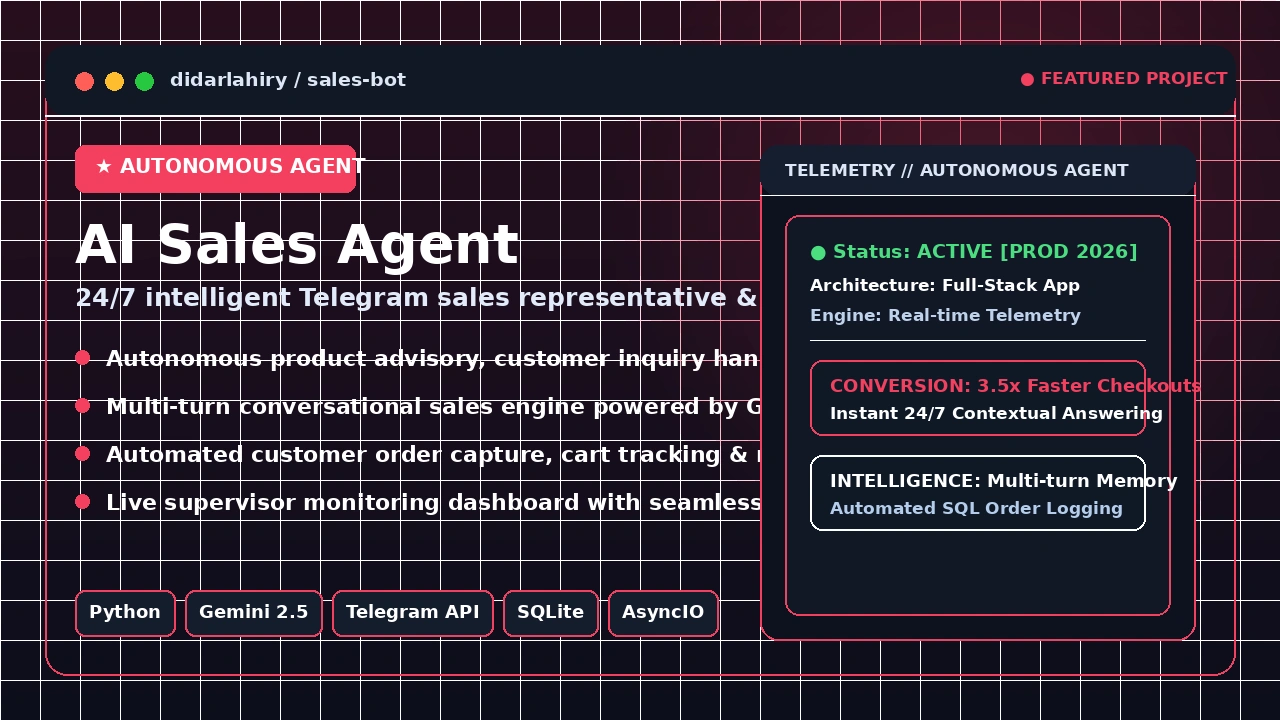
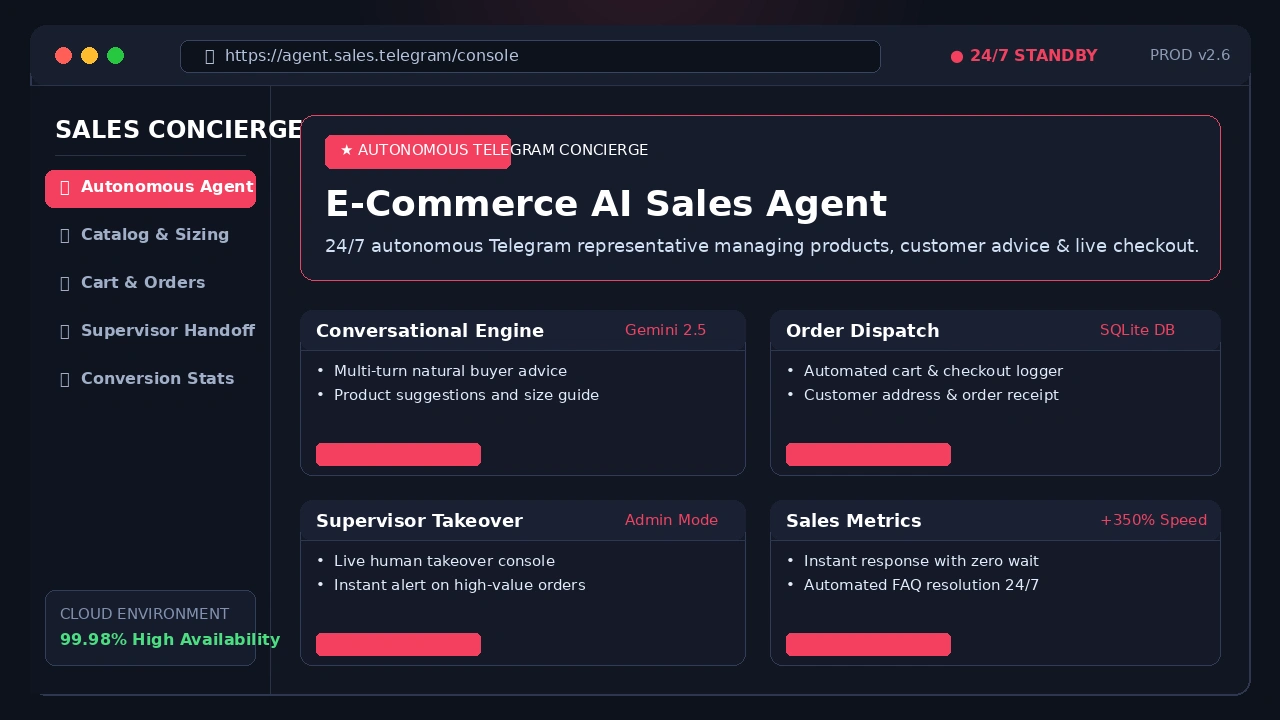
Revamp project posters into clean modern desktop PC OS interface without grid lines; move live clock to top navbar header

Changed region(s): [[0.0312, 0.0, 1.0, 0.9778], [0.0, 0.0, 0.4062, 0.1222]]

diff --git a/index.html b/index.html
@@ -96,6 +96,29 @@
   box-shadow: 0 0 18px rgba(255, 158, 187, 0.4) !important;
 }
 
+
+/* Top Navbar Ambient Clock */
+.top-nav-clock {
+  font-family: 'Space Grotesk', monospace !important;
+  font-size: 13px !important;
+  font-weight: 600 !important;
+  color: #e2e8f0 !important;
+  letter-spacing: 0.6px !important;
+  background: rgba(18, 24, 38, 0.8) !important;
+  border: 1px solid rgba(255, 255, 255, 0.12) !important;
+  padding: 6px 14px !important;
+  border-radius: 99px !important;
+  box-shadow: 0 4px 14px rgba(0, 0, 0, 0.3) !important;
+  display: flex !important;
+  align-items: center !important;
+  gap: 6px !important;
+  z-index: 100 !important;
+  backdrop-filter: blur(8px) !important;
+}
+.top-nav-clock:before {
+  content: '🕒';
+  font-size: 12px;
+}
 /* Enhanced Projects Monitor Typography & Colors */
 .dbar {
   display: flex !important;
@@ -376,11 +399,11 @@
          onto the screen, laid exactly over it; until then the screen in the
          scene plays the chosen project's demo as a texture. --><button class="undock" id="undock" type="button" hidden><span aria-hidden="true">&#9664;</span> Back to the room</button><!-- Docked on his badges: the one before, turn it over, the next --><div class="badge-nav" id="badge-nav" role="group" aria-label="Experience & Education" hidden><button type="button" class="prev" aria-label="Previous badge">&#8249;</button><span class="count">01 / 03</span><button type="button" class="next" aria-label="Next badge">&#8250;</button><p class="said" aria-live="polite"></p></div><!-- The index: every section one click away, without finding its prop --><!-- The index: every section one click away. A glass pill with the
          sections numbered and a highlight that slides to the one open; on a
-         phone, a tab bar along the bottom, an icon over each name. --><nav class="index" aria-label="Sections"><span class="ind" aria-hidden="true"></span><button type="button" data-go="projects"><span class="n">01</span><svg class="i" viewBox="0 0 24 24" aria-hidden="true"><path d="M3 5h18v11H3zM9 20h6M12 16v4"></path></svg><span class="l">Projects</span></button><button type="button" data-go="experience"><span class="n">02</span><svg class="i" viewBox="0 0 24 24" aria-hidden="true"><path d="M3 4h18v14H3z"></path><path d="M7 8h4v5H7zM13 8h4M13 11h4M13 14h3"></path></svg><span class="l">Experience</span></button><button type="button" data-go="education"><span class="n">03</span><svg class="i" viewBox="0 0 24 24" aria-hidden="true"><path d="M12 3L1 9l11 6 9-4.91V17h2V9L12 3zM5 13.18v4L12 21l7-3.82v-4L12 17l-7-3.82z"></path></svg><span class="l">Education</span></button><button type="button" data-go="about"><span class="n">04</span><svg class="i" viewBox="0 0 24 24" aria-hidden="true"><path d="M4 5h16v11H9l-5 4z"></path><path d="M8 9.5h8M8 12.5h5"></path></svg><span class="l">About</span></button><button type="button" data-go="contact"><span class="n">05</span><svg class="i" viewBox="0 0 24 24" aria-hidden="true"><path d="M8 2h8a2 2 0 0 1 2 2v16a2 2 0 0 1-2 2H8a2 2 0 0 1-2-2V4a2 2 0 0 1 2-2zM11 18h2"></path></svg><span class="l">Contact</span></button></nav><!-- the room's sound, on or off (sound.ts): its bars playing while it is on --><button class="sound" id="sound" type="button" aria-pressed="false" aria-label="Sound" title="Toggle Lo-Fi Ambient Sound"><span class="sound-tag">SOUND</span><i></i><i></i><i></i><i></i></button><!-- The monitor's surface: his desktop, a tiling one as on Linux. All four
+         phone, a tab bar along the bottom, an icon over each name. --><nav class="index" aria-label="Sections"><span class="ind" aria-hidden="true"></span><button type="button" data-go="projects"><span class="n">01</span><svg class="i" viewBox="0 0 24 24" aria-hidden="true"><path d="M3 5h18v11H3zM9 20h6M12 16v4"></path></svg><span class="l">Projects</span></button><button type="button" data-go="experience"><span class="n">02</span><svg class="i" viewBox="0 0 24 24" aria-hidden="true"><path d="M3 4h18v14H3z"></path><path d="M7 8h4v5H7zM13 8h4M13 11h4M13 14h3"></path></svg><span class="l">Experience</span></button><button type="button" data-go="education"><span class="n">03</span><svg class="i" viewBox="0 0 24 24" aria-hidden="true"><path d="M12 3L1 9l11 6 9-4.91V17h2V9L12 3zM5 13.18v4L12 21l7-3.82v-4L12 17l-7-3.82z"></path></svg><span class="l">Education</span></button><button type="button" data-go="about"><span class="n">04</span><svg class="i" viewBox="0 0 24 24" aria-hidden="true"><path d="M4 5h16v11H9l-5 4z"></path><path d="M8 9.5h8M8 12.5h5"></path></svg><span class="l">About</span></button><button type="button" data-go="contact"><span class="n">05</span><svg class="i" viewBox="0 0 24 24" aria-hidden="true"><path d="M8 2h8a2 2 0 0 1 2 2v16a2 2 0 0 1-2 2H8a2 2 0 0 1-2-2V4a2 2 0 0 1 2-2zM11 18h2"></path></svg><span class="l">Contact</span></button></nav><!-- the room's sound, on or off (sound.ts): its bars playing while it is on --><div class="top-nav-clock" data-clock></div><button class="sound" id="sound" type="button" aria-pressed="false" aria-label="Sound" title="Toggle Lo-Fi Ambient Sound"><span class="sound-tag">SOUND</span><i></i><i></i><i></i><i></i></button><!-- The monitor's surface: his desktop, a tiling one as on Linux. All four
          projects tiled, a terminal beside them; choosing one opens it on its
          own workspace, the app with its recording on the left and its README
          in a terminal on the right. The bar's workspaces, a tile, or a
-         window's close and minimise choose (desk-room.ts, showProject). --><section class="surface desk" id="projects" aria-label="Projects" hidden><h2 class="kicker">Projects</h2><div class="dbar"><nav class="ws" aria-label="Projects"><button type="button" data-p="" aria-pressed="true">0 <b>all</b></button><button type="button" data-p="edi" aria-pressed="false">1 <b>kishan</b></button><button type="button" data-p="resumewesume" aria-pressed="false">2 <b>letter-port</b></button><button type="button" data-p="bandsy" aria-pressed="false">3 <b>sales-bot</b></button><button type="button" data-p="mentora" aria-pressed="false">4 <b>fb-auto</b></button></nav><span class="clock" data-clock></span><span class="tray" aria-hidden="true"><svg viewBox="0 0 16 16"><path d="M1.5 6a9 9 0 0 1 13 0M4 8.6a5.4 5.4 0 0 1 8 0M6.4 11.1a2 2 0 0 1 3.2 0"></path></svg><svg viewBox="0 0 16 16"><path d="M2 6h3l4-3v10l-4-3H2zM11.5 5.5a3.5 3.5 0 0 1 0 5"></path></svg><span>BST</span></span></div><div class="dview" data-scroll><div class="tiles">
+         window's close and minimise choose (desk-room.ts, showProject). --><section class="surface desk" id="projects" aria-label="Projects" hidden><h2 class="kicker">Projects</h2><div class="dbar"><nav class="ws" aria-label="Projects"><button type="button" data-p="" aria-pressed="true">0 <b>all</b></button><button type="button" data-p="edi" aria-pressed="false">1 <b>kishan</b></button><button type="button" data-p="resumewesume" aria-pressed="false">2 <b>letter-port</b></button><button type="button" data-p="bandsy" aria-pressed="false">3 <b>sales-bot</b></button><button type="button" data-p="mentora" aria-pressed="false">4 <b>fb-auto</b></button></nav><span class="tray" aria-hidden="true"><svg viewBox="0 0 16 16"><path d="M1.5 6a9 9 0 0 1 13 0M4 8.6a5.4 5.4 0 0 1 8 0M6.4 11.1a2 2 0 0 1 3.2 0"></path></svg><svg viewBox="0 0 16 16"><path d="M2 6h3l4-3v10l-4-3H2zM11.5 5.5a3.5 3.5 0 0 1 0 5"></path></svg><span>BST</span></span></div><div class="dview" data-scroll><div class="tiles">
   <button type="button" class="tile" data-p="edi" style="grid-area: edi">
     <span class="t"><b style="color: #4ade80;">1. Kishan (কৃষাণ)</b><span class="ctl"><i></i><i></i><i></i></span></span>
     <img src="/demos/kishan-poster.webp" alt="Kishan AI Platform">
